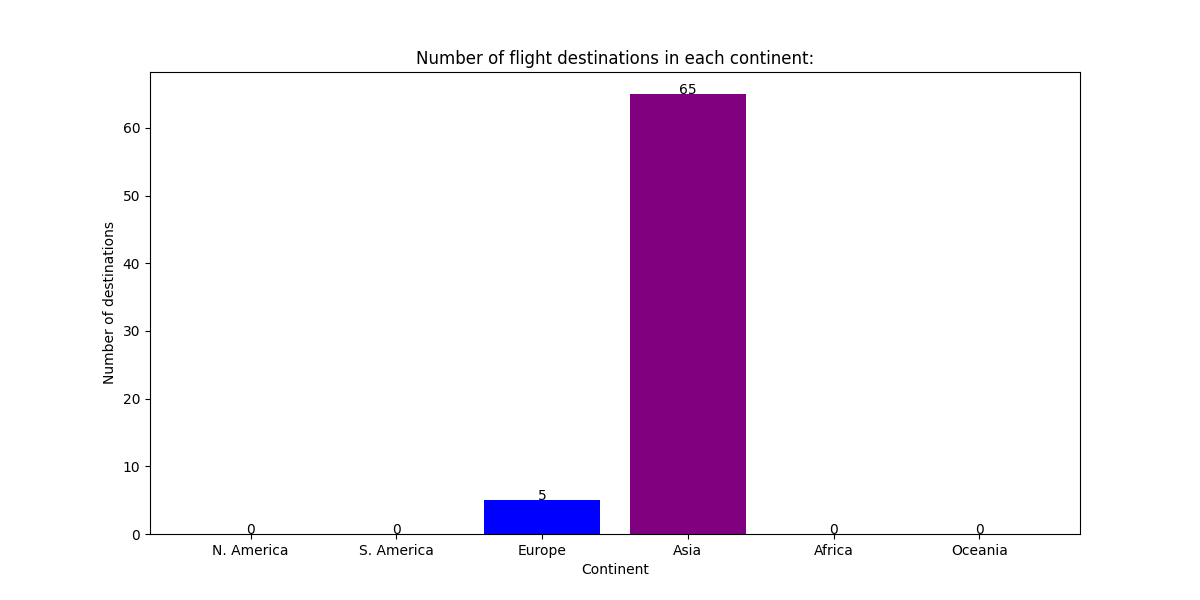
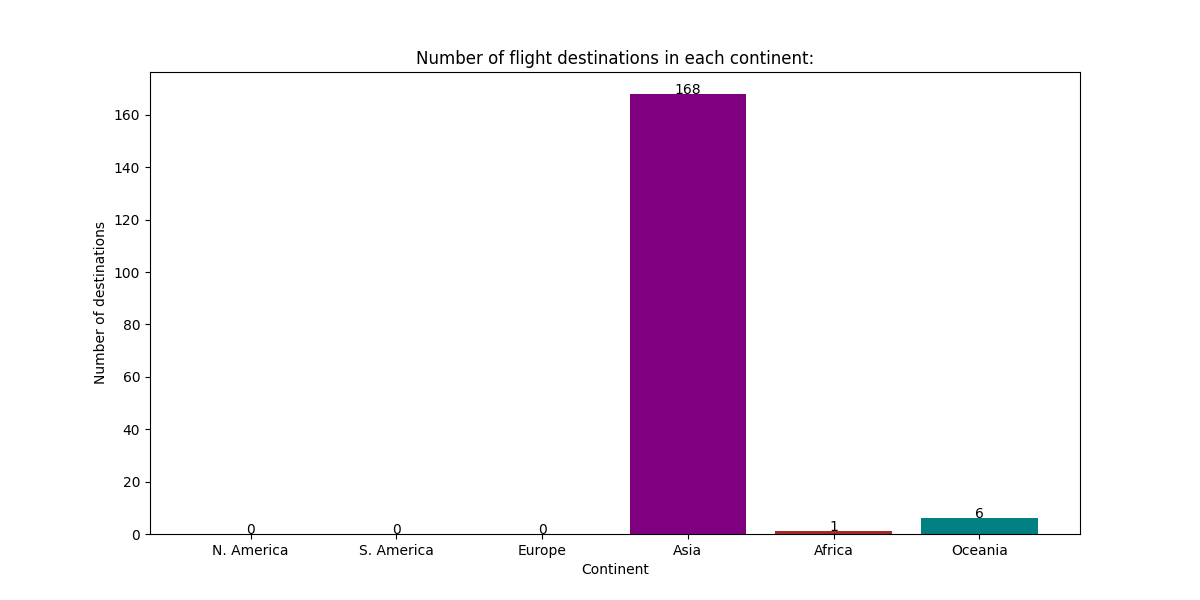
mapping and counting html

diff --git a/templates/documentation.html b/templates/documentation.html
@@ -24,13 +24,14 @@
     </nav>
   <main id="main-doc">
     <section id="Introduction" class="main-section">
-      <header>Introduction</header>
-      <p>JavaScript is a cross-platform, object-oriented scripting language. It is a small and lightweight language. Inside a host environment (for example, a web browser), JavaScript can be connected to the objects of its environment to provide programmatic control over them.</p>
-<p>JavaScript contains a standard library of objects, such as Array, Date, and Math, and a core set of language elements such as operators, control structures, and statements. Core JavaScript can be extended for a variety of purposes by supplementing it with additional objects; for example:</p>
-<ul>
-  <li>Client-side JavaScript extends the core language by supplying objects to control a browser and its Document Object Model (DOM). For example, client-side extensions allow an application to place elements on an HTML form and respond to user events such as mouse clicks, form input, and page navigation.</li>
-  <li>Server-side JavaScript extends the core language by supplying objects relevant to running JavaScript on a server. For example, server-side extensions allow an application to communicate with a database, provide continuity of information from one invocation to another of the application, or perform file manipulations on a server. </li>
-</ul>
+      <header>Introduction</header>      
+      <p>References</p>
+      <ul>
+        <li>Link for the flight map GitHub repository: <a target="_blank">https://github.com/zhangwengame/Python-Flight-Map</a></li>
+        <li>Link for the OpenFlights website: <a target="_blank">https://openflights.org/data.html#airport</a></li>
+        <li>Link for the OpenFlights Github: <a target="_blank">https://github.com/jpatokal/openflights</a></li>
+        <li>Link for the OpenFlights Github (data): <a target="_blank">https://github.com/jpatokal/openflights/tree/master/data</a></li>
+      </ul>
     </section>
     <section id="What_you_should_already_know" class="main-section">
       <header>What you should already know</header>

diff --git a/templates/index.html b/templates/index.html
@@ -92,7 +92,27 @@
             <input type="submit" id="submit" value="Submit">   
           </fieldset>
         </form>
-      </section>  
+      </section> 
+      <section class="main-section">
+        <header>List all airline for source airport</header>
+        <form action="/counting">
+          <fieldset>
+            <label for="source_ap">Input source airport: </label>
+            <input type="text" name="source_ap" id="">
+            <input type="submit" id="submit" value="Submit">   
+          </fieldset>
+        </form>
+      </section> 
+      <section class="main-section">
+        <header>List all route from a country</header>
+        <form action="/mapping">
+          <fieldset>
+            <label for="country">Input country name: </label>
+            <input type="text" name="country" id="">
+            <input type="submit" id="submit" value="Submit">   
+          </fieldset>
+        </form>
+      </section> 
     </main>
   </body>
 </html>

diff --git a/templates/mapping.html b/templates/mapping.html
@@ -16,10 +16,10 @@
             </ul>
           </nav>  
           <main id="main-doc">
-            <section id="counting" class="main-section">                
+            <section id="mapping" class="main-section">                
                 <div class="">
-                    <h2 class="text-center">Counting</h2>
-                    <img class="flexbox" src="../static/Images/airport_count.png" alt="airport count">                    
+                    <h2 class="text-center">Mapping</h2>
+                    <img class="flexbox" src="../static/Images/filtered_routes_map.png" alt="airport map">                    
                 </div>        
             </section>        
         </main>

diff --git a/mapping.py b/mapping.py
@@ -1,0 +1,53 @@
+import csv
+import geopandas as gpd
+import pandas as pd
+import cartopy.crs as ccrs
+import matplotlib.pyplot as plt
+from shapely.geometry import LineString
+
+def filter_and_map(d):
+       # Flight data:
+       airports = pd.read_csv("static/database/airports.dat", delimiter=',',
+                           names=['id', 'name', 'city', 'country', 'iata',
+                                  'icao', 'lat', 'long', 'altitude', 'timezone',
+                                  'dst', 'tz', 'type', 'source'])
+
+       routes = pd.read_csv("static/database/routes.dat", delimiter=',',
+                         names=['airline', 'id', 'source_airport', 'source_airport_id',
+                                'destination_airport', 'destination_airport_id', 'codeshare',
+                                'stops', 'equitment'])
+
+       routes_filter = routes["source_airport"] == d
+       routes = routes[routes_filter]
+
+       # For getting source and destination airports
+       source_airports = airports[['name', 'iata', 'icao', 'lat', 'long']]
+       destination_airports = source_airports.copy()
+       source_airports.columns = [str(col) + '_source' for col in source_airports.columns]
+       destination_airports.columns = [str(col) + '_destination' for col in destination_airports.columns]
+
+       routes = routes[['source_airport', 'destination_airport']]
+       routes = pd.merge(routes, source_airports, left_on='source_airport', right_on='iata_source')
+       routes = pd.merge(routes, destination_airports, left_on='destination_airport', right_on='iata_destination')
+
+       # For plotting flight path over map
+       fig = plt.figure(facecolor='black')
+       ax = plt.axes(projection=ccrs.Robinson())
+       ax.stock_img()
+       fig.set_size_inches(7, 3.5)
+
+       # Takes a list of latitude and longitude pairs and creates a line that joins those points
+       geometry = [LineString([[routes.iloc[i]['long_source'], routes.iloc[i]['lat_source']], [routes.iloc[i]['long_destination'], routes.iloc[i]['lat_destination']]]) for i in range(routes.shape[0])]
+       routes = gpd.GeoDataFrame(routes, geometry=geometry, crs='EPSG:4326')
+
+       routes.plot(ax=ax, transform=ccrs.Geodetic(), color='red', linewidth=0.5, alpha=1)
+
+       plt.setp(ax.spines.values(), color='black')
+       plt.setp([ax.get_xticklines(), ax.get_yticklines()], color='black')
+       ax.set_ylim(-7000000, 8800000)
+       
+       # Save as image
+       fig.savefig('static/images/filtered_routes_map.png')
+
+# Example:
+#filter_and_map("MSQ")

diff --git a/app.py b/app.py
@@ -2,7 +2,8 @@ from flask import *
 from aps_listing_and_routing import funk
 from closest_furthest_cities import closest_furthest
 from aps_per_continent_by_src import find_continent
-# import "database-to-graph.py"
+from counting import filter_and_count
+from mapping import filter_and_map
 
 app = Flask(__name__)
 
@@ -48,11 +49,28 @@ def survey():
 def redirect_aps_per_continent_by_src():
    source_city = request.args.get('source_city')
    return redirect(url_for('aps_per_continent_by_src', source_city = source_city))
-
 @app.route('/aps_per_continent_by_src/<source_city>')
 def aps_per_continent_by_src(source_city):
    find_continent(source_city)
    return render_template('aps_per_continent_by_src.html', source_city=source_city)
+
+@app.route('/counting', methods=['GET'])
+def redirect_counting():
+   source_ap = request.args.get('source_ap')
+   return redirect(url_for('counting', source_city=source_ap))
+@app.route('/countring/<source_ap>')
+def counting(source_ap):
+   filter_and_count(source_ap)
+   return render_template('counting.html', source_ap=source_ap)
+
+@app.route('/mapping', methods=['GET'])
+def redirect_mapping():
+   country = request.args.get('country')
+   return redirect(url_for('mapping', country=country))
+@app.route('/mapping/<country>')
+def mapping(country):
+   filter_and_map(country)
+   return render_template('mapping.html', country=country)
 
 if __name__ == '__main__':
   app.run(debug=True)

diff --git a/counting.py b/counting.py
@@ -1,0 +1,32 @@
+import geopandas as gpd
+import matplotlib.pyplot as plt
+import csv
+import numpy as np
+import pandas as pd
+from shapely.geometry import LineString
+
+#pd.set_option('display.max_columns', None)
+#pd.set_option('display.max_rows', None)
+
+def filter_and_count(source_airport):
+       airports = pd.read_csv("static/database/airports.dat", delimiter=',',
+                           names=['id', 'name', 'city', 'country', 'iata',
+                                  'icao', 'lat', 'long', 'altitude', 'timezone',
+                                  'dst', 'tz', 'type', 'source'])
+
+       routes = pd.read_csv("static/database/routes.dat", delimiter=',',
+                         names=['airline', 'id', 'source_airport', 'source_airport_id',
+                                'destination_airport', 'destination_airport_id', 'codeshare',
+                                'stops', 'equitment'])
+
+       #Returns number of occurences of each airline from AER
+       routes_filter = routes["source_airport"] == source_airport
+       routes2 = routes[routes_filter].groupby(["airline"])["airline"].count().sort_values(ascending=False)
+
+       routes2.plot(kind="bar")
+
+       #Save as image
+       plt.savefig('static/images/airport_count.png')
+
+#Example:
+#filter_and_count("AER")
